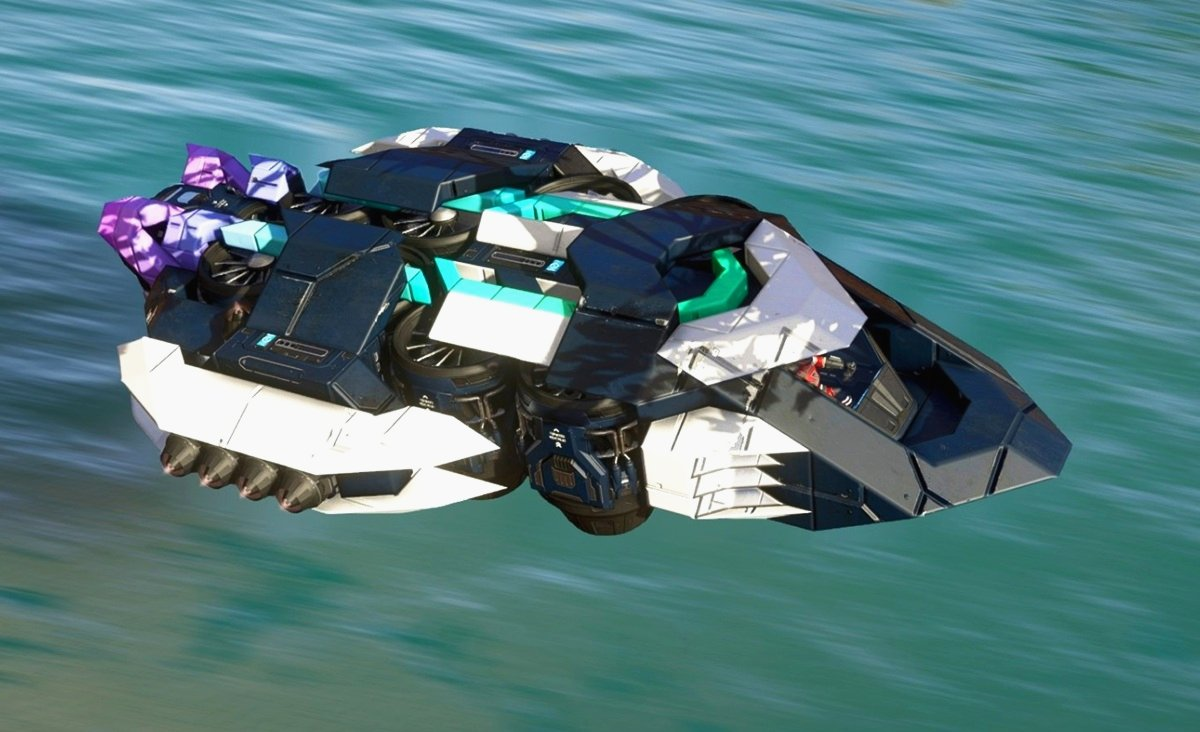
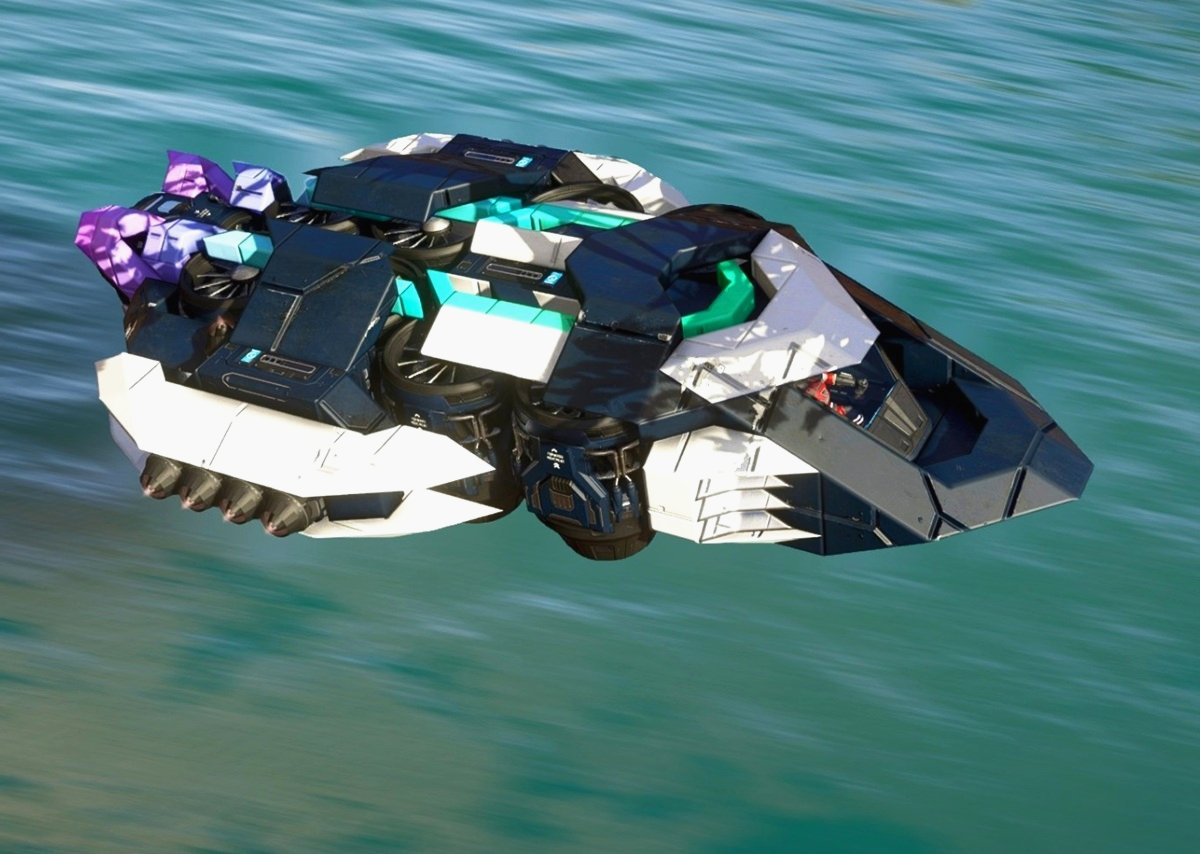
Eka phone crop: taller, so open/close is one smooth reveal

diff --git a/fleet.html b/fleet.html
@@ -84,7 +84,7 @@ article[style*="solid"]:hover{border-color:rgba(81,255,201,.45)!important}
 .av-stamp{position:relative;z-index:2;font-family:Tektur,Michroma,sans-serif;font-weight:600;font-size:clamp(18px,2.4vw,30px);letter-spacing:.42em;text-transform:uppercase;color:#ECEDF7;border:1.5px solid #ECEDF7;padding:.42em .7em .42em 1.12em;background:rgba(12,13,29,.6);transform:rotate(-4deg)}
 .av-btn{transition:transform .45s cubic-bezier(.2,.7,.2,1),box-shadow .45s ease}.av-btn:hover{transform:scale(1.05);box-shadow:-8px 0 24px rgba(81,255,201,.32),8px 0 24px rgba(188,119,255,.32)}.av-btn:active{transform:scale(1.01);transition-duration:.15s}
 .av-ship.av-closing .av-ship-img{height:clamp(150px,18vw,230px)!important}
-@media (max-width:720px){#eka .av-ship-img img{object-position:50% 36%!important}}
+@media (max-width:720px){#eka .av-ship-img img{object-position:50% 24%!important}}
 @media (prefers-reduced-motion:reduce){*,*::before,*::after{animation:none!important;transition:none!important}}
 @keyframes av-rise{from{opacity:0;transform:translateY(24px)}to{opacity:1;transform:none}}
 .av-reveal{opacity:0}

diff --git a/index.html b/index.html
@@ -52,7 +52,7 @@ article[style*="solid"]:hover{border-color:rgba(81,255,201,.45)!important}
 .av-open .av-menu span:nth-child(2){opacity:0}
 .av-open .av-menu span:nth-child(3){transform:translateY(-7px) rotate(-45deg)}
 }
-@media (max-width:720px){[style*="aspect-ratio: 21 / 9"]{aspect-ratio:4 / 3!important}[style*="aspect-ratio: 21 / 9"] img{object-position:47% 55%!important}[style*="aspect-ratio: 21 / 9"] p{padding:10px 14px!important;font-size:10px!important}.av-showcase{aspect-ratio:16 / 9!important}.av-showcase img{object-position:50% 42%!important}}
+@media (max-width:720px){[style*="aspect-ratio: 21 / 9"]{aspect-ratio:4 / 3!important}[style*="aspect-ratio: 21 / 9"] img{object-position:47% 55%!important}[style*="aspect-ratio: 21 / 9"] p{padding:10px 14px!important;font-size:10px!important}.av-showcase{aspect-ratio:16 / 9!important}.av-showcase img{object-position:50% 6%!important}}
 .av-bg{overflow-x:clip}
 .av-photo{position:relative;isolation:isolate}
 .av-photo::before,.av-photo::after{content:"";position:absolute;top:0;bottom:0;left:calc(50% - 50vw);right:calc(50% - 50vw);pointer-events:none}
